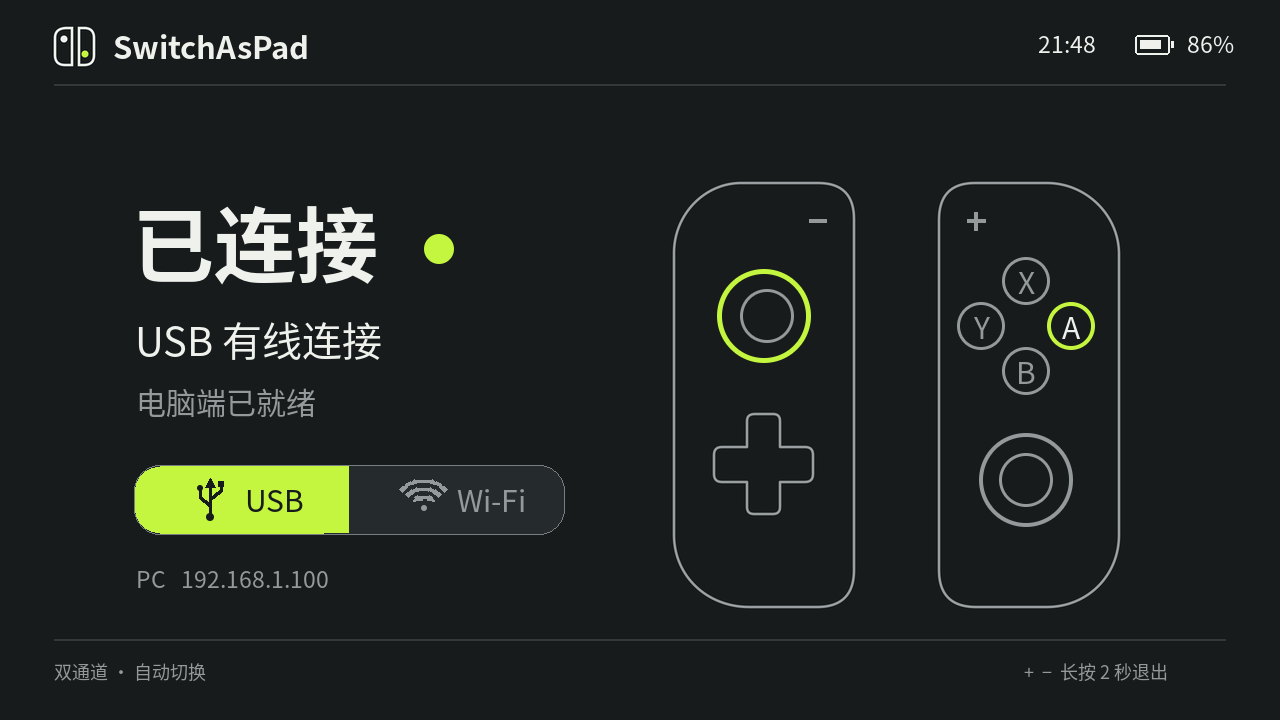
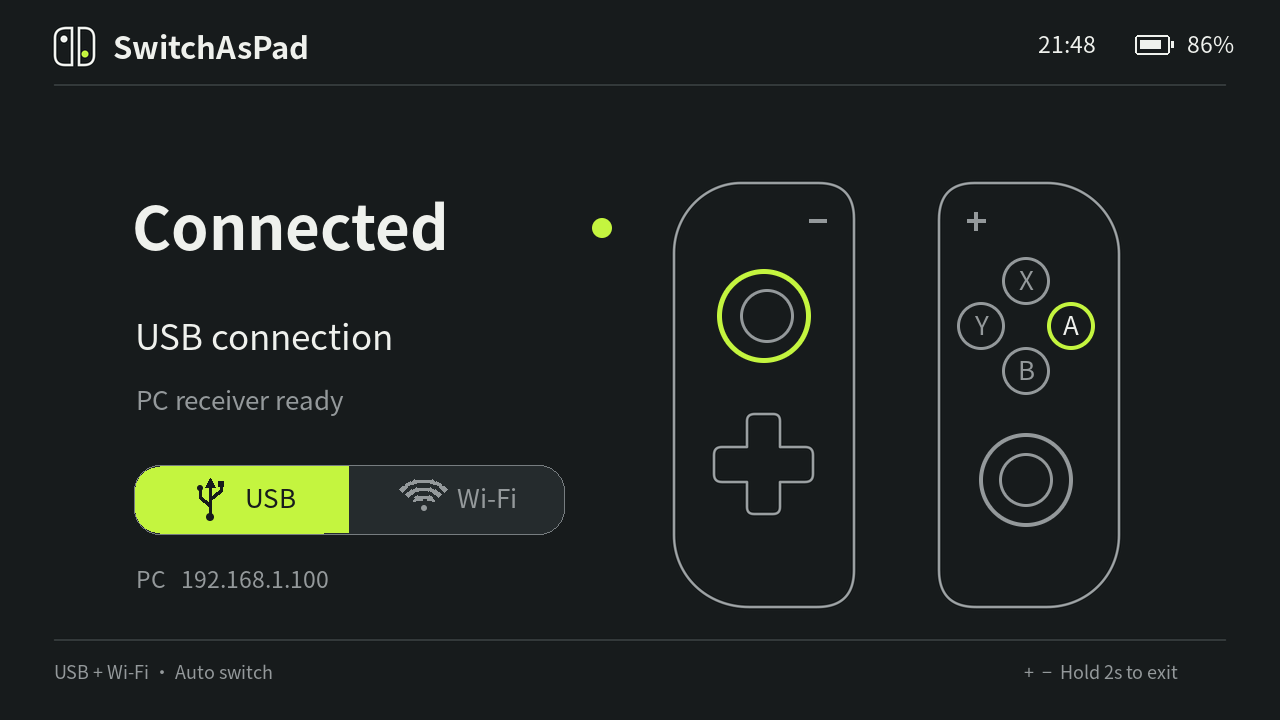
Make English the default README and localize its preview

diff --git a/source/ui.c b/source/ui.c
@@ -10,7 +10,13 @@ static SDL_Renderer *r,*display;
 static SDL_Surface *canvas;
 static SDL_Texture *frame,*background;
 static TTF_Font *fonts[7];
+#ifdef SAP_PREVIEW_EN
+static const int sizes[]={18,23,26,35,60,15,31};
+#define UI_TEXT(en,zh) en
+#else
 static const int sizes[]={18,23,30,40,82,15,31};
+#define UI_TEXT(en,zh) zh
+#endif
 #define WHITE 0xeff1edff
 #define MUTED 0x94999bff
 #define LIME 0xc4f53fff
@@ -111,9 +117,14 @@ void ui_draw(uint64_t b,int lx,int ly,int rx,int ry,int transport,int battery,bo
  char bat[24];if(battery>=0)snprintf(bat,sizeof(bat),"%d%%",battery);else snprintf(bat,sizeof(bat),"--%%");
  text(1187,26,1,WHITE,bat,false);
  if(powered){Sint16 bx[]={1250,1244,1249,1246,1255,1250};Sint16 by[]={32,44,44,54,41,41};filledPolygonRGBA(r,bx,by,6,196,245,63,255);}
- text(132,180,4,WHITE,transport?"已连接":"待连接",false);circle(439,249,15,transport?LIME:MUTED,true);
- text(135,309,3,WHITE,transport==2?"USB 有线连接":transport==1?"Wi-Fi 无线连接":"等待电脑接入",false);
- text(136,379,2,MUTED,transport?"电脑端已就绪":"请运行电脑接收程序",false);
+ text(132,180,4,WHITE,transport?UI_TEXT("Connected","已连接"):UI_TEXT("Not connected","待连接"),false);
+#ifdef SAP_PREVIEW_EN
+ circle(602,228,10,transport?LIME:MUTED,true);
+#else
+ circle(439,249,15,transport?LIME:MUTED,true);
+#endif
+ text(135,309,3,WHITE,transport==2?UI_TEXT("USB connection","USB 有线连接"):transport==1?UI_TEXT("Wi-Fi connection","Wi-Fi 无线连接"):UI_TEXT("Waiting for PC","等待电脑接入"),false);
+ text(136,379,2,MUTED,transport?UI_TEXT("PC receiver ready","电脑端已就绪"):UI_TEXT("Start the PC receiver","请运行电脑接收程序"),false);
  // Segmented status: left USB and right Wi-Fi, both have the same dimensions.
  roundbox(134,465,430,69,26,0x252b2dff,true);
  if(transport){int x=transport==2?135:350;roundbox(x,466,213,67,25,LIME,true);box(transport==2?320:350,466,29,67,LIME);}
@@ -133,8 +144,8 @@ void ui_draw(uint64_t b,int lx,int ly,int rx,int ry,int transport,int battery,bo
  if(held(b,15))roundbox(751,478,25,32,4,LIME,true);
  if(held(b,12))roundbox(718,451,32,27,4,LIME,true);
  if(held(b,14))roundbox(777,451,32,27,4,LIME,true);
- text(54,658,0,MUTED,"双通道 · 自动切换",false);
- text(1024,658,0,MUTED,"+  −  长按 2 秒退出",false);
+ text(54,658,0,MUTED,UI_TEXT("USB + Wi-Fi · Auto switch","双通道 · 自动切换"),false);
+ text(1024,658,0,MUTED,UI_TEXT("+  −  Hold 2s to exit","+  −  长按 2 秒退出"),false);
  if(progress>0)box(54,639,(int)(1172*progress),3,LIME);
  SDL_RenderPresent(r);
  SDL_UpdateTexture(frame,NULL,canvas->pixels,canvas->pitch);

diff --git a/README.md b/README.md
@@ -1,34 +1,38 @@
 # SAP · SwitchAsPad
 
-把 Nintendo Switch / Switch Lite 作为 Linux 电脑的手柄，通过 USB 或 Wi-Fi 控制模拟器和其他支持手柄的软件。
+English | [简体中文](README.zh-CN.md)
 
-![界面预览](docs/preview.png)
+Use a Nintendo Switch or Switch Lite as a controller for a Linux PC over USB or Wi-Fi, including emulators and other games with gamepad support.
 
-## 功能
+![Interface preview](docs/preview.png)
 
-- 传输 ABXY、方向键、双摇杆、摇杆按下、L/R/ZL/ZR、＋/－。
-- USB 与 Wi-Fi 双通道，电脑端优先使用 USB。
-- 断线 300 毫秒后释放虚拟手柄输入。
-- Switch 界面显示时间、电量、供电状态、连接状态及实时输入；按固定 1280×720 画布等比显示。
-- 按住＋和－两秒退出。界面不显示肩键，但肩键输入保留。
+## Features
 
-目前电脑接收端只支持 Linux，不支持 Windows、macOS、体感和震动。Switch 需要能运行 homebrew NRO 的环境；这不是免驱 USB HID 固件。
+- ABXY, D-pad, both analog sticks and stick clicks, L/R/ZL/ZR, and Plus/Minus.
+- USB and Wi-Fi input, with USB preferred when both are available.
+- Releases virtual controller inputs after 300 ms without data.
+- Displays time, battery level, external power, connection status, and live input on a fixed 1280×720 canvas with uniform scaling.
+- Hold Plus and Minus together for two seconds to exit. Shoulder buttons remain functional even though they are not drawn.
 
-## Switch 安装
+The PC receiver currently supports **Linux only**. Windows, macOS, motion controls, and rumble are not supported. The Switch must be able to run homebrew NRO applications. This is not driverless USB HID firmware.
 
-从源码编译 `switchaspad.nro`，复制到 SD 卡：
+The English screenshot is rendered from the UI code in preview mode. The current Switch application uses Chinese interface text.
+
+## Switch setup
+
+Build `switchaspad.nro` from source and copy it to the SD card:
 
 ```text
 /switch/switchaspad/switchaspad.nro
 ```
 
-Wi-Fi 使用时，在同目录创建 `pc.txt`，只写电脑的局域网 IPv4 地址，例如 `192.168.1.100`。不提供该文件则使用局域网广播。电脑与 Switch 连接同一局域网，并允许 UDP 26780。USB 使用支持数据传输的线。
+For Wi-Fi, create `pc.txt` in the same directory containing only your PC's LAN IPv4 address, such as `192.168.1.100`. Without this file, the application uses LAN broadcast. Connect both devices to the same network and allow UDP port 26780. For USB, use a data-capable cable.
 
-退出 DBI 等占用 USB 的应用，通过 hbmenu 启动 SwitchAsPad。
+Exit DBI or other applications using USB, then launch SwitchAsPad from hbmenu.
 
-## Linux 接收端
+## Linux receiver
 
-以 Debian/Ubuntu 为例：
+On Debian or Ubuntu:
 
 ```bash
 sudo apt install python3-venv libusb-1.0-0 acl
@@ -38,61 +42,61 @@ sudo modprobe uinput
 sudo setfacl -m "u:$(id -un):rw" /dev/uinput
 ```
 
-USB 模式还需要设备访问权限。创建规则：
+USB mode also needs device access. Install a udev rule:
 
 ```bash
 printf '%s\n' 'SUBSYSTEM=="usb", ATTR{idVendor}=="057e", ATTR{idProduct}=="3001", TAG+="uaccess"' | sudo tee /etc/udev/rules.d/70-switchaspad.rules
 sudo udevadm control --reload-rules
 ```
 
-随后重新插拔 USB，再启动接收端：
+Reconnect the USB cable, then start the receiver:
 
 ```bash
 .venv/bin/python pc/receiver.py
-# 或仅使用一种通道：
+# Or select a single transport:
 .venv/bin/python pc/receiver.py --transport wifi
 .venv/bin/python pc/receiver.py --transport usb
 ```
 
-`setfacl` 的授权在重启或设备重建后可能需要重做。接收端使用局域网 UDP，没有配对或认证，适合可信家庭网络，不应把端口转发到公网。
+You may need to repeat the `setfacl` command after rebooting or recreating the device. UDP has no pairing or authentication; use it on a trusted LAN and do not forward the port to the internet.
 
-## 模拟器配置
+## Emulator configuration
 
-输入设备选择 **SwitchAsPad**，模拟控制器类型选择 **Pro Controller**。按实际 Switch 按键确认 ABXY 映射；＋绑定 Start，－绑定 Back。设备未出现时刷新列表或重新打开模拟器。
+Select **SwitchAsPad** as the input device and **Pro Controller** as the emulated controller type. Check ABXY mappings against the physical buttons. Map Plus to **Start** and Minus to **Back**. Refresh the device list or restart the emulator if the controller is missing.
 
-## 编译 NRO
+## Build the NRO
 
-需要 Docker，官方 devkitPro 镜像包含本项目使用的 libnx 和 SDL2 库：
+Install Docker. The official devkitPro image includes the libnx and SDL2 libraries used here:
 
 ```bash
 docker run --rm -v "$PWD:/src" -w /src devkitpro/devkita64:latest make -j4
 ```
 
-输出为仓库根目录的 `switchaspad.nro`。`latest` 是可变标签，后续工具链更新可能影响构建。
+The output is `switchaspad.nro` in the repository root. The `latest` image tag is mutable, so future toolchain updates may affect builds.
 
-## 本机界面预览
+## Render a desktop preview
 
 ```bash
 sudo apt install build-essential pkg-config libsdl2-dev libsdl2-ttf-dev libsdl2-gfx-dev
-cc tools/preview.c source/ui.c -o preview $(pkg-config --cflags --libs sdl2 SDL2_ttf SDL2_gfx) -lm
+cc -DSAP_PREVIEW_EN tools/preview.c source/ui.c -o preview $(pkg-config --cflags --libs sdl2 SDL2_ttf SDL2_gfx) -lm
 SDL_VIDEODRIVER=dummy ./preview
 ```
 
-生成 `preview.bmp`，使用演示时间、电量和输入；参数 `0` 为待连接，`1` 为 Wi-Fi，`2` 为 USB。
+This produces `preview.bmp` with example time, battery, and input values. Pass `0` for disconnected, `1` for Wi-Fi, or `2` for USB. Omit `-DSAP_PREVIEW_EN` to render the Chinese interface used on the Switch.
 
-## 源码结构
+## Source layout
 
-- `source/main.c`：libnx 输入、系统状态、USB 与 UDP 传输。
-- `source/ui.c`：动态界面、字体与等比显示。
-- `romfs/layout.svg`：静态界面矢量源；`layout.bmp` 是嵌入 NRO 的栅格版本。
-- `pc/receiver.py`：Linux uinput 虚拟手柄与双通道接收。
+- `source/main.c`: libnx input, system status, USB and UDP transport.
+- `source/ui.c`: dynamic UI, fonts, and proportional display scaling.
+- `romfs/layout.svg`: static vector artwork; `layout.bmp` is the raster version embedded in the NRO.
+- `pc/receiver.py`: Linux uinput gamepad and dual-transport receiver.
 
-通信协议为 24 字节小端结构 `<4sIQhhhh`：`SPAD`、32 位序号、64 位 libnx 按钮位以及四个 16 位摇杆值。UDP 端口为 26780，确认消息为 `SPAK`。USB VID/PID 为 `057e:3001`，沿用当前原型配置，并非本项目获分配的 USB ID。
+Reports use the 24-byte little-endian structure `<4sIQhhhh`: `SPAD`, a 32-bit sequence number, 64-bit libnx button flags, and four signed 16-bit stick values. UDP uses port 26780 and the acknowledgement `SPAK`. USB uses VID/PID `057e:3001`, inherited from the prototype; these are not USB IDs allocated to this project.
 
-## 验证范围
+## Validation status
 
-USB 实机输入、电脑虚拟手柄及断线归零曾在开发机器验证。当前界面完成本机渲染与 NRO 编译；Switch Lite 的最新界面效果仍需实机确认。不能据此保证所有固件、主机或模拟器组合兼容。
+Physical USB input, the Linux virtual gamepad, and timeout-based input release have been tested on the development machine. The current UI has passed desktop rendering checks and NRO compilation. Its latest appearance on Switch Lite still needs hardware confirmation. Compatibility with every firmware, host, or emulator configuration is not established.
 
-## 许可
+## License
 
-项目自有代码与界面资源采用 [MIT](LICENSE)。`romfs/ui.otf`、`romfs/bold.otf` 是 Adobe Source Han Sans SC 的字符子集，使用 [SIL Open Font License 1.1](romfs/OFL.txt)，不适用 MIT。构建依赖 libnx、SDL2、SDL2_ttf、SDL2_gfx 及其依赖，分别遵循各上游许可。
+Project code and original UI assets are licensed under [MIT](LICENSE). `romfs/ui.otf` and `romfs/bold.otf` are subsets derived from Adobe Source Han Sans SC and are licensed separately under the [SIL Open Font License 1.1](romfs/OFL.txt), not MIT. libnx, SDL2, SDL2_ttf, SDL2_gfx, and their dependencies retain their respective upstream licenses.

diff --git a/README.zh-CN.md b/README.zh-CN.md
@@ -1,0 +1,100 @@
+# SAP · SwitchAsPad
+
+[English](README.md) | 简体中文
+
+把 Nintendo Switch / Switch Lite 作为 Linux 电脑的手柄，通过 USB 或 Wi-Fi 控制模拟器和其他支持手柄的软件。
+
+![界面预览](docs/preview.zh-CN.png)
+
+## 功能
+
+- 传输 ABXY、方向键、双摇杆、摇杆按下、L/R/ZL/ZR、＋/－。
+- USB 与 Wi-Fi 双通道，电脑端优先使用 USB。
+- 断线 300 毫秒后释放虚拟手柄输入。
+- Switch 界面显示时间、电量、供电状态、连接状态及实时输入；按固定 1280×720 画布等比显示。
+- 按住＋和－两秒退出。界面不显示肩键，但肩键输入保留。
+
+目前电脑接收端只支持 Linux，不支持 Windows、macOS、体感和震动。Switch 需要能运行 homebrew NRO 的环境；这不是免驱 USB HID 固件。
+
+## Switch 安装
+
+从源码编译 `switchaspad.nro`，复制到 SD 卡：
+
+```text
+/switch/switchaspad/switchaspad.nro
+```
+
+Wi-Fi 使用时，在同目录创建 `pc.txt`，只写电脑的局域网 IPv4 地址，例如 `192.168.1.100`。不提供该文件则使用局域网广播。电脑与 Switch 连接同一局域网，并允许 UDP 26780。USB 使用支持数据传输的线。
+
+退出 DBI 等占用 USB 的应用，通过 hbmenu 启动 SwitchAsPad。
+
+## Linux 接收端
+
+以 Debian/Ubuntu 为例：
+
+```bash
+sudo apt install python3-venv libusb-1.0-0 acl
+python3 -m venv .venv
+.venv/bin/pip install -r pc/requirements.txt
+sudo modprobe uinput
+sudo setfacl -m "u:$(id -un):rw" /dev/uinput
+```
+
+USB 模式还需要设备访问权限。创建规则：
+
+```bash
+printf '%s\n' 'SUBSYSTEM=="usb", ATTR{idVendor}=="057e", ATTR{idProduct}=="3001", TAG+="uaccess"' | sudo tee /etc/udev/rules.d/70-switchaspad.rules
+sudo udevadm control --reload-rules
+```
+
+随后重新插拔 USB，再启动接收端：
+
+```bash
+.venv/bin/python pc/receiver.py
+# 或仅使用一种通道：
+.venv/bin/python pc/receiver.py --transport wifi
+.venv/bin/python pc/receiver.py --transport usb
+```
+
+`setfacl` 的授权在重启或设备重建后可能需要重做。接收端使用局域网 UDP，没有配对或认证，适合可信家庭网络，不应把端口转发到公网。
+
+## 模拟器配置
+
+输入设备选择 **SwitchAsPad**，模拟控制器类型选择 **Pro Controller**。按实际 Switch 按键确认 ABXY 映射；＋绑定 Start，－绑定 Back。设备未出现时刷新列表或重新打开模拟器。
+
+## 编译 NRO
+
+需要 Docker，官方 devkitPro 镜像包含本项目使用的 libnx 和 SDL2 库：
+
+```bash
+docker run --rm -v "$PWD:/src" -w /src devkitpro/devkita64:latest make -j4
+```
+
+输出为仓库根目录的 `switchaspad.nro`。`latest` 是可变标签，后续工具链更新可能影响构建。
+
+## 本机界面预览
+
+```bash
+sudo apt install build-essential pkg-config libsdl2-dev libsdl2-ttf-dev libsdl2-gfx-dev
+cc tools/preview.c source/ui.c -o preview $(pkg-config --cflags --libs sdl2 SDL2_ttf SDL2_gfx) -lm
+SDL_VIDEODRIVER=dummy ./preview
+```
+
+生成 `preview.bmp`，使用演示时间、电量和输入；参数 `0` 为待连接，`1` 为 Wi-Fi，`2` 为 USB。
+
+## 源码结构
+
+- `source/main.c`：libnx 输入、系统状态、USB 与 UDP 传输。
+- `source/ui.c`：动态界面、字体与等比显示。
+- `romfs/layout.svg`：静态界面矢量源；`layout.bmp` 是嵌入 NRO 的栅格版本。
+- `pc/receiver.py`：Linux uinput 虚拟手柄与双通道接收。
+
+通信协议为 24 字节小端结构 `<4sIQhhhh`：`SPAD`、32 位序号、64 位 libnx 按钮位以及四个 16 位摇杆值。UDP 端口为 26780，确认消息为 `SPAK`。USB VID/PID 为 `057e:3001`，沿用当前原型配置，并非本项目获分配的 USB ID。
+
+## 验证范围
+
+USB 实机输入、电脑虚拟手柄及断线归零曾在开发机器验证。当前界面完成本机渲染与 NRO 编译；Switch Lite 的最新界面效果仍需实机确认。不能据此保证所有固件、主机或模拟器组合兼容。
+
+## 许可
+
+项目自有代码与界面资源采用 [MIT](LICENSE)。`romfs/ui.otf`、`romfs/bold.otf` 是 Adobe Source Han Sans SC 的字符子集，使用 [SIL Open Font License 1.1](romfs/OFL.txt)，不适用 MIT。构建依赖 libnx、SDL2、SDL2_ttf、SDL2_gfx 及其依赖，分别遵循各上游许可。
